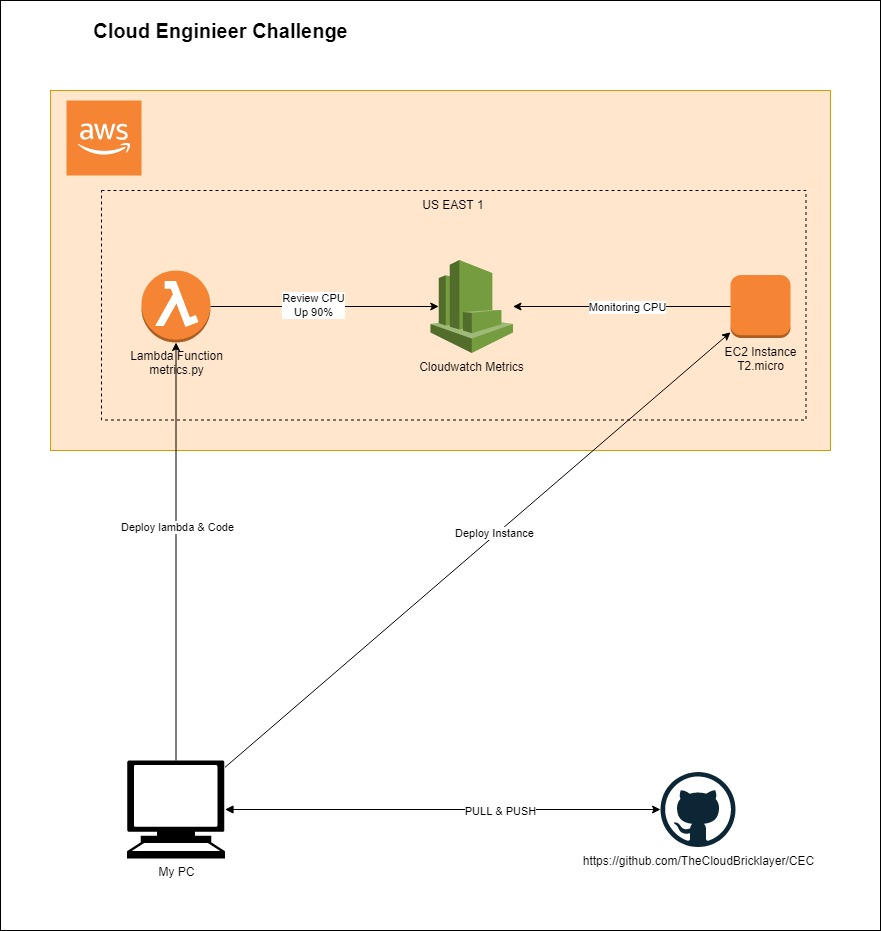
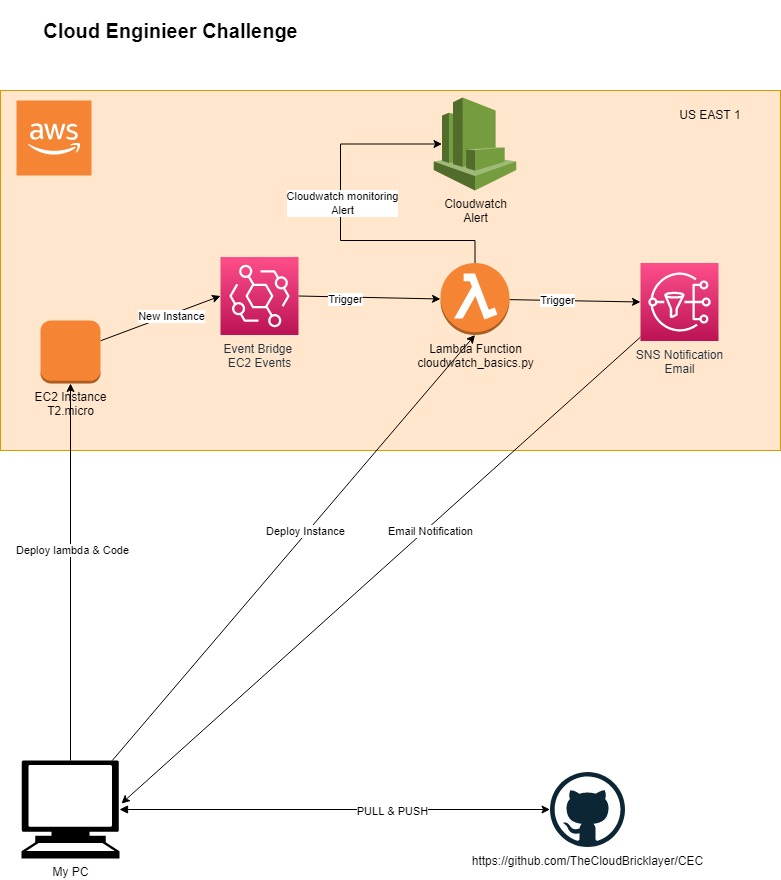
updates code and diagram

diff --git a/code/cloudwatch_basics.py b/code/cloudwatch_basics.py
@@ -278,13 +278,13 @@ def usage_demo(event, context):
                 'counts': [random.randint(1, offset + 1) for _ in range(10)]
             })
 
-    alarm_name = 'high_page_views'
+    alarm_name = 'CPU_Utilization'
     period = 60
     eval_periods = 3
     print(f"Creating alarm {alarm_name} for metric {metric_name}.")
     alarm = cw_wrapper.create_metric_alarm(
         metric_namespace, metric_name, alarm_name, 'Maximum', period, eval_periods,
-        100, 'GreaterThanThreshold')
+        90, 'GreaterThanThreshold')
     print(f"Alarm ARN is {alarm.alarm_arn}.")
     print(f"Current alarm state is: {alarm.state_value}.")
 
@@ -293,7 +293,7 @@ def usage_demo(event, context):
     while alarm.state_value == 'INSUFFICIENT_DATA':
         print("Sending data for the metric.")
         cw_wrapper.put_metric_data(
-            metric_namespace, metric_name, random.randint(100, 200), 'Count')
+            metric_namespace, metric_name, random.randint(60, 100), 'Count')
         alarm.load()
         print(f"Current alarm state is: {alarm.state_value}.")
         if alarm.state_value == 'INSUFFICIENT_DATA':
